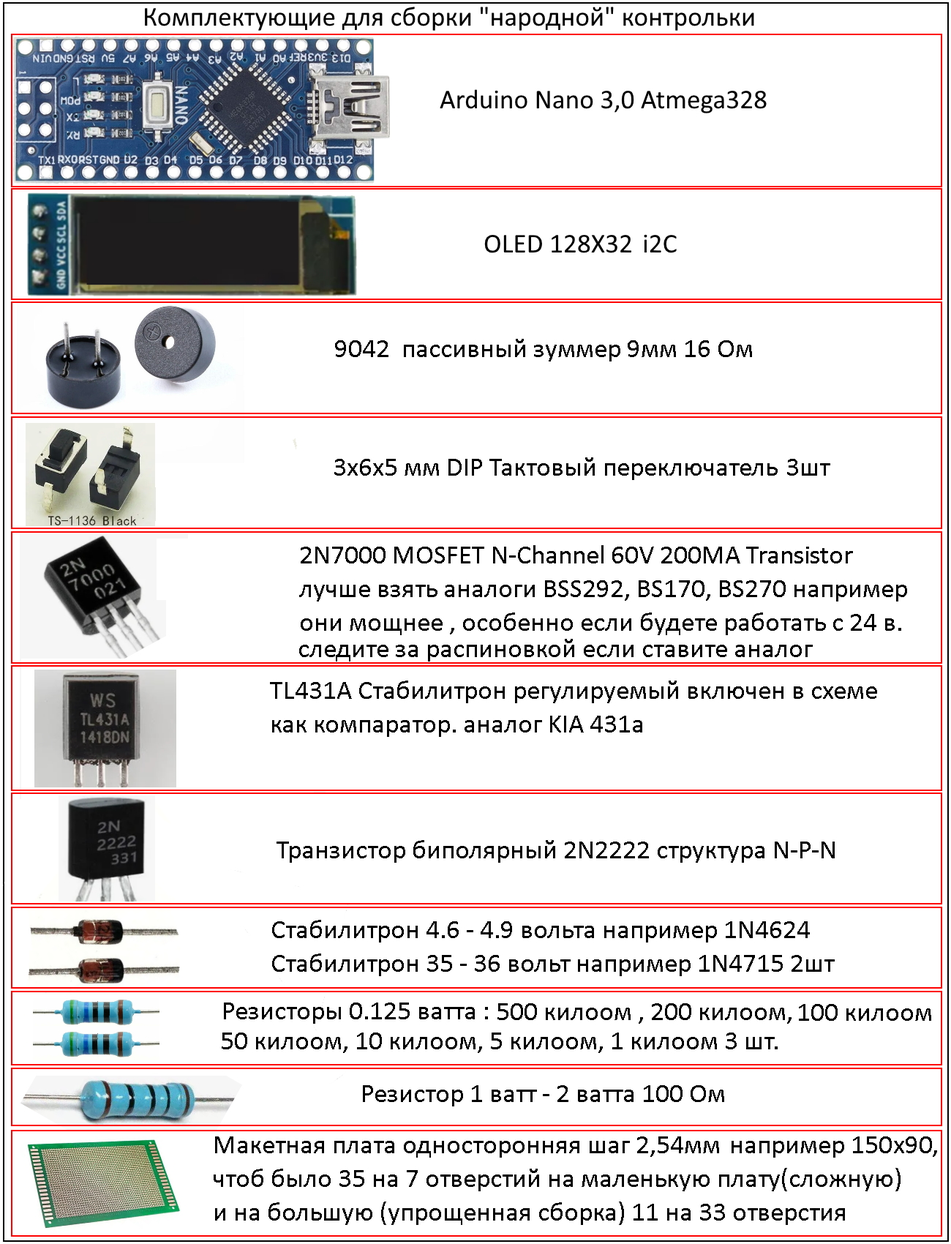
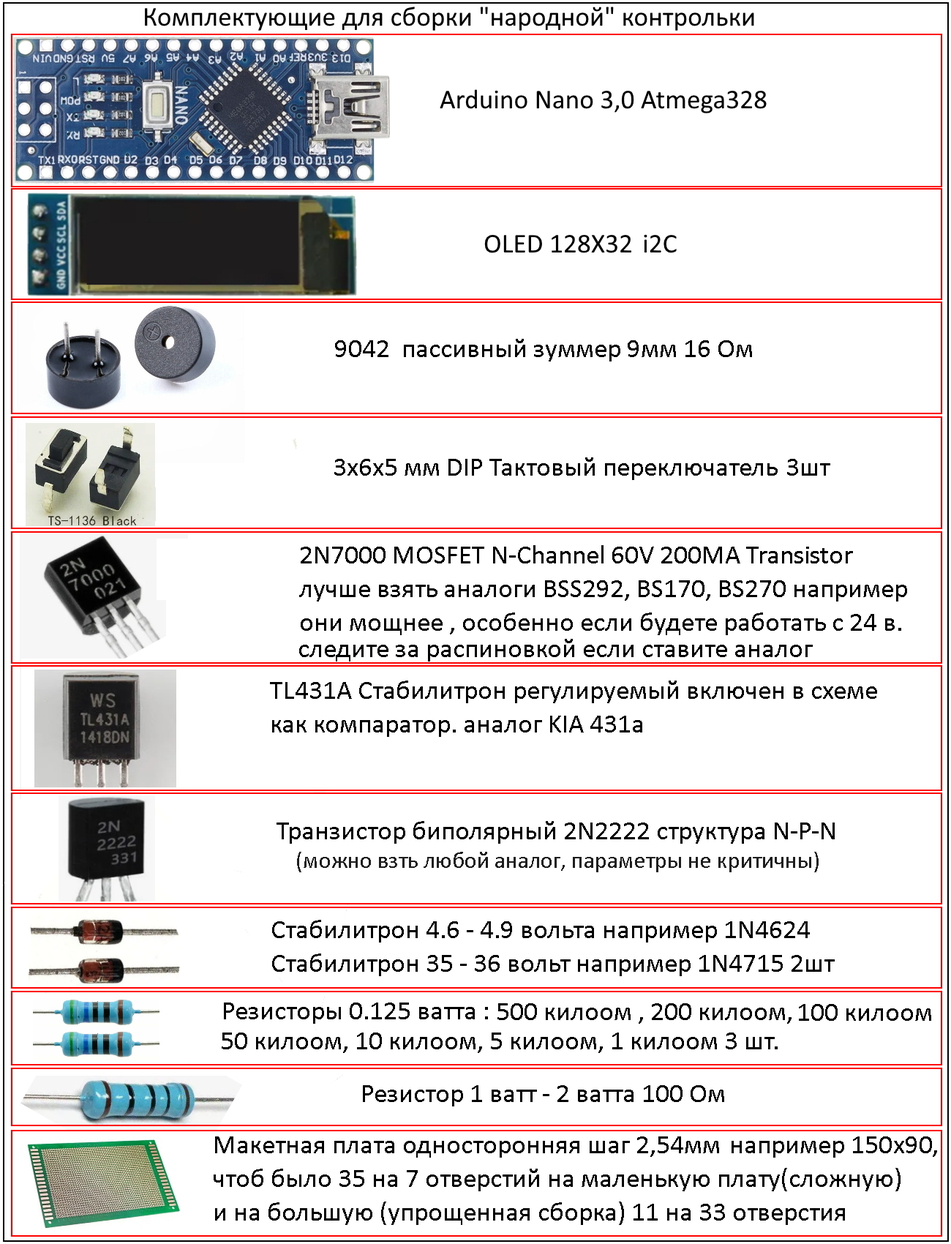
first commit39

Changed region(s): [[0.2769, 0.6547, 0.8923, 0.7171]]

diff --git a/shema.html b/shema.html
@@ -14,138 +14,167 @@
 
   </head  >
   <body  style = "background-color : #A6C197">
- <nav class="navbar navbar-expand-lg navbar-dark " style = "background-color : #18464A">
-  <a class="navbar-brand " href="#">Народная контролька</a>
-  <button class="navbar-toggler " type="button" data-toggle="collapse" data-target="#navbarSupportedContent" aria-controls="navbarSupportedContent" aria-expanded="false" aria-label="Переключатель навигации">
-    <span class="navbar-toggler-icon"></span>
-  </button>
-  <div class="collapse navbar-collapse justify-content-end" id="navbarSupportedContent">
-    <ul class="navbar-nav mb-2 mb-lg-0 ">
-      <li class="nav-item active">
-        <a class="nav-link text-light" href="index.html">Главная </a>
-      </li>
-      <li class="nav-item active">
-        <a class="nav-link text-light" href="obzor.html">Обзор функций </a>
-      </li>
-      <li class="nav-item active">
-        <a class="nav-link text-light" href="sborka.html">Пошаговая сборка </a>
-      </li>
-      <li class="nav-item ">
-        <a class="nav-link " href="shema.html">Схема и плата</a>
-      </li>
-      <li class="nav-item active">
-        <a class="nav-link  text-light" href="zagruzka.html">Файлы для скачивания</a>
-      </li>
-    </ul>
-  </div>
-</nav>
+   <nav class="navbar navbar-expand-lg navbar-dark " style = "background-color : #18464A">
+    <a class="navbar-brand " href="#">Народная контролька</a>
+    <button class="navbar-toggler " type="button" data-toggle="collapse" data-target="#navbarSupportedContent" aria-controls="navbarSupportedContent" aria-expanded="false" aria-label="Переключатель навигации">
+      <span class="navbar-toggler-icon"></span>
+    </button>
+    <div class="collapse navbar-collapse justify-content-end" id="navbarSupportedContent">
+      <ul class="navbar-nav mb-2 mb-lg-0 ">
+        <li class="nav-item active">
+          <a class="nav-link text-light" href="index.html">Главная </a>
+        </li>
+        <li class="nav-item active">
+          <a class="nav-link text-light" href="obzor.html">Обзор функций </a>
+        </li>
+        <li class="nav-item active">
+          <a class="nav-link text-light" href="sborka.html">Пошаговая сборка </a>
+        </li>
+        <li class="nav-item ">
+          <a class="nav-link " href="shema.html">Схема и плата</a>
+        </li>
+        <li class="nav-item active">
+          <a class="nav-link  text-light" href="zagruzka.html">Файлы для скачивания</a>
+        </li>
+      </ul>
+    </div>
+  </nav>
 
 
 
-      <div class="container-fluid">
-        <div class="row">
-          <div class="col-2 p-0 d-none d-md-block">
-           <!--  колонка невидимая -->
-         </div >
+  <div class="container-fluid">
+    <div class="row">
+      <div class="col-2 p-0 d-none d-md-block">
+       <!--  колонка невидимая -->
+     </div >
 
-         <div class="col p-0 ">
+     <div class="col p-0 ">
 
-          <div class="container-fluid p-0">
-
-
-    <div class="card p-1 mt-3">
-              <a id="dpkv"></a>
-              <h5 class="card-header text-center text-white" style = "background-color : #18464A">Сайт в разработке!</h5>
-              <div class="card-body p-1">
-                <h5 class="card-title">Что то может устарело или гдето ошибки это нормально!</h5>
-                <p>
-                  Старый сайт с актуальной информацией <a href="https://indeedphp.github.io/arduino/pages/handiwork.html#kontrolka9" >Перейти</a>
-                  <p/>
-                </div>
-              </div>
+      <div class="container-fluid p-0">
 
 
-            <div class="card p-1 mt-4">
-              <h5 class="card-header text-center text-white" style = "background-color : #18464A">Компоненты</h5>
-              <div class="card-body p-1">
-                <h5 class="card-title">Компоненты и аналоги</h5>
-                <img  src="image/komponent.jpg" class="img-fluid w-100">
-                <p class="card-text">На рисунке компоненты для сборки контрольки, они доступные и недорогие, если чтото не найдете то используйте аналоги, резистор на 10 килоом и 100 килоом ставте обязательно на именно такое сопротивление иначе вольтметр сложно будет корректировать, остальные резисторы плюс минус 15% без проблем, стоабилитроны любые на указанные вольты.
-                </p>
-              </div>
+        <div class="card p-1 mt-3">
+          <a id="dpkv"></a>
+          <h5 class="card-header text-center text-white" style = "background-color : #18464A">Сайт в разработке!</h5>
+          <div class="card-body p-1">
+            <h5 class="card-title">Что то может устарело или гдето ошибки это нормально!</h5>
+            <p>
+              Старый сайт с актуальной информацией <a href="https://indeedphp.github.io/arduino/pages/handiwork.html#kontrolka9" >Перейти</a>
+              <p/>
             </div>
-
-            <div class="card p-1 mt-4">
-              <h5 class="card-header text-center text-white" style = "background-color : #18464A">Схема контрольки</h5>
-              <div class="card-body p-1">
-                <h5 class="card-title">Электросхема контрольки и описание</h5>
-                <img  src="image/shema_elektro.jpg" class="img-fluid w-100">
-                <p class="card-text">На рисунке схема контрольки, она достаточно простая что благотворно скажется на сборке особенно для начинающих, так же компоненты на схеме распространенные и не дорогие.
-                </p>
-              </div>
-            </div>
-
-
-
-
-            <div class="card p-1 mt-4">
-              <h5 class="card-header text-center text-white" style = "background-color : #18464A">Сборка на макетке</h5>
-              <div class="card-body p-1">
-                <h5 class="card-title">Сборка контрольки на макетной плате</h5>
-                <img  src="image/chema_maket.jpg" class="img-fluid w-100">
-                <p class="card-text">Контролька собирается на макетной плате (размеры и количество отверстий дано на рисунке) для того чтоб каждый мог повторить ее не вдаваясь в изготовление или заказ печатных плат. Потом на сайте размещу провереные печатные платы для сборки как с выводными компонентами так и с CMD компонентами. Так же контролька все еще находится в стадии усовершенствования и что то может поменятся на макетке это сделать не сложно, а на печатной плате будет затруднительно. На рисунке плата которая разработана под корпус шприца 20 кубов, ее сборка не сильно сложная, пайка лишь усложняется тем что детали перекрываю дорожки и пр. , думаю сделать более простую версию где ничего не будет перекрыватся и в любой момент можно будет чтото подправить но тогда с корпусом придется самим чтото придумать, можно 3д принтер использовать или склеить из чего либо, да хоть папье-маше :).
-                </p>
-              </div>
-            </div>
-
-    <div class="card p-1 mt-4">
-              <h5 class="card-header text-center text-white" style = "background-color : #18464A">Сборка на макетке упрощенная</h5>
-              <div class="card-body p-1">
-                <h5 class="card-title">Упрощенная сборка для тестов и начинающих</h5>
-                <img  src="image/chema_maket_prostaya.jpg" class="img-fluid w-100">
-                <p class="card-text">ПОКА НЕ ПРОВЕРЯЛАСЬ ПЛАТА, ГАРАНТИИ ЧТО ЗАРАБОТАЕТ НЕТ. <br>
-                  Упростил плату теперь не надо при сборке чередовать последовательность впайки компонентов, можно паять откуда угодно, например можно запаять ардуино и дисплей и проверить работоспособность, далее запаять кнопки и проверить как они нажимаются и так далее, так же если нет некоторых деталей можно паять так, а потом когда детали появятся добавить, так же плата более ремонтопригодна так как не надо снимать дисплей али ардуино чтоб чтото там подпаять, заменить. Советую начинать с нее особенно когда все проверится. Плата кажется сильно шире предыдущей но это не так, она стала короче от этого такой эффект. На счет корпуса тут все идивидуально хоть клеить из листов, хоть 3д принтер, хоть папье-маше, хоть термоусадка сами решайте.
-                </p>
-              </div>
-            </div>
-
-
-
-            <div class="card p-1 mt-4">
-              <h5 class="card-header text-center text-white" style = "background-color : #18464A">Питание контрольки</h5>
-              <div class="card-body p-1">
-                <h5 class="card-title">Простая схема для питании контрольки в автомобиле.</h5>
-                <img  src="image/pitanie.jpg" class="img-fluid w-100">
-                <p class="card-text">
-                  Питание контрольки может быть разным но я предложу свой проверенный вариант который советую всем, как видно на схеме нужно всего 3 детали это стабилизатор и пару конденсаторов, все затягивается в термоусадку и получается небольшое утолщение на проводе перед крокодилами. Данная схема подходит как для работы с грузовиками где напряжение 24-28 вольт и с легковыми авто с напряжением 12-14 вольт, данный преобразователь при работе греется не сильно ведь ток потребления контрольки 30 милиапер (как у хорошего светодиода).
-                  <br>
-                  Вам не надо беспокоится о разряде аккумулятора, о том что на морозе или жаре акб испортится, а так же литиевые акб склонны к возгоранию так что советую данную схему как самую простую, доступную и недорогую.
-                  <br>
-                  Некоторых жанная схема напрягает тем что придется всегда подключатся к аккумулятору автомобиля и работать с удлинителем, но у удлинителя много преемуществ: у вас всегда честный плюс и минус, а значит все показания которые вы собираете правильные, так же удлинитель позволяет подать питание куда либо например на моторчик стеклоподъемника напрямую и проверить его, также удлинитель если он нетолстый играет роль защиты и нагрузки, 0.75 квадрата замкнутые потребляют 30 ампер что можно использовать для диагностики, замкнутый удлинитель будет грется секунд 15-20 прежде чем начнет плавится так ловите лайфхак :), бросить удлинитель занимает 1 минуту, а если вы сняли неточные показания оттолкнувшись от ржавой железки может работу затянуть и на пол дня.
-                </p>
-              </div>
-            </div>
-
-    <div class="card p-1 mt-4">
-              <h5 class="card-header text-center text-white" style = "background-color : #18464A">Кнопки в корпус</h5>
-              <div class="card-body p-1">
-                <h5 class="card-title">Чертеж кнопок для корпуса из шприца 20 кубов.</h5>
-                <img  src="image/knopki.jpg" class="img-fluid w-100">
-                <p class="card-text">
-На рисунке даны размеры кнопок для корпуса из шприца 20 кубов, кнопки клавишные очень хорошо подходят под данный корпус. Изготавливаются из пластика, можно взять корпус от игрушек, блоков питания, корпусов телевизоров и пр. главное чтоб пластик был жесткий. Выпилить можно пилкой по металлу и подогнать наждачной бумагой или надфилем, но лучше использовать бор машину (гравер) им довольно быстро все делается(стоят они недорого и для тех кто своими руками чтото делает незаменимая вещь, в автоэлектрике тоже кстати пригождается часто). Осью служит игла от шприца ей же и сверлим отверстия, игла острая и сверлит хорошо, самое главное что после сверления отсутствует люфт на оси, далее откусываем иглу так чтоб она немного цепляла стенки шприца и все, кнопки нажимаются на удивление хорошо, и переставить в другой корпус дело 1 минуты так как корпус никак не подгоняется, ни клеить ни закреплять как то нечего не надо, все дежится нза счет распорок зацепа за кнопки и пищалки что все не ушло в корпус. Размеры у вас могут немного отличатся, если пищалка стоит дальше что лучше то и зацеп делайте больше сильного зазора не должно быть. Ниже будут фото кнопок и видео работы.
-                </p>
-              </div>
-            </div>
-
           </div>
 
+
+          <div class="card p-1 mt-4">
+            <h5 class="card-header text-center text-white" style = "background-color : #18464A">Компоненты</h5>
+            <div class="card-body p-1">
+              <h5 class="card-title">Компоненты и аналоги</h5>
+              <img  src="image/komponent.jpg" class="img-fluid w-100">
+              <p class="card-text">На рисунке компоненты для сборки контрольки, они доступные и недорогие, если чтото не найдете то используйте аналоги, резистор на 10 килоом и 100 килоом ставте обязательно на именно такое сопротивление иначе вольтметр сложно будет корректировать, остальные резисторы плюс минус 15% без проблем, стоабилитроны любые на указанные вольты.
+              </p>
+            </div>
+          </div>
+
+          <div class="card p-1 mt-4">
+            <h5 class="card-header text-center text-white" style = "background-color : #18464A">Схема контрольки</h5>
+            <div class="card-body p-1">
+              <h5 class="card-title">Электросхема контрольки и описание</h5>
+              <img  src="image/shema_elektro.jpg" class="img-fluid w-100">
+              <p class="card-text">На рисунке схема контрольки, она достаточно простая что благотворно скажется на сборке особенно для начинающих, так же компоненты на схеме распространенные и не дорогие.
+                <br>
+                Немного разберем как работает схема: на транзисторе MOSFET 2n7000, резисторах R1, R2  собрана схема подключения нагрузки, при открытии транзистора на игле контрольки появляется нагрузка в 100 ом , так же данная схема работает для генератора ШИМ просаживая сигнал на игле на минус и пр.
+                <br>
+                На TL431 и резисторах R4, R3 собран частотомер, TL431 включена нестандартно как компаратор, с ардуино идет сигнал плюс 5 вольт и ТЛ его просаживает, ардуино видя это считает импульсы.
+                <br>
+                На R5 , R6 построен делитель напряжения для осцилографа и вольтметра он делит входное напряжение на 10 что позволяет измерять до 50 вольт но часть напряжения мы оставим под защиту входа ардуино.
+                <br>
+                На 2n2222 и резисторах R7,  R8,  R10 собрана прозвонка, при открытии транзистора на иглу подается напряжение и если это напряжение упадет до нуля сработает пищалка, так же эта схема работает как плюсовой ШИМ и пр.
+                <br>
+                Фонарик собран на резисторе R9 и белом светодиоде , фонарик светит всегда когда есть питание на контрольке.
+                <br>
+                Стабилитроны в схеме стоят для защиты от пренапряжения, они скидывают все лишнее на минус
+              </p>
+            </div>
+          </div>
+
+
+
+
+          <div class="card p-1 mt-4">
+            <h5 class="card-header text-center text-white" style = "background-color : #18464A">Сборка на макетке</h5>
+            <div class="card-body p-1">
+              <h5 class="card-title">Сборка контрольки на макетной плате</h5>
+              <img  src="image/chema_maket.jpg" class="img-fluid w-100">
+              <p class="card-text">Контролька собирается на макетной плате (размеры и количество отверстий дано на рисунке) для того чтоб каждый мог повторить ее не вдаваясь в изготовление или заказ печатных плат. Потом на сайте размещу провереные печатные платы для сборки как с выводными компонентами так и с CMD компонентами. Так же контролька все еще находится в стадии усовершенствования и что то может поменятся на макетке это сделать не сложно, а на печатной плате будет затруднительно. На рисунке плата которая разработана под корпус шприца 20 кубов, ее сборка не сильно сложная, пайка лишь усложняется тем что детали перекрываю дорожки и пр. , думаю сделать более простую версию где ничего не будет перекрыватся и в любой момент можно будет чтото подправить но тогда с корпусом придется самим чтото придумать, можно 3д принтер использовать или склеить из чего либо, да хоть папье-маше :).
+              </p>
+            </div>
+          </div>
+
+          <div class="card p-1 mt-4">
+            <h5 class="card-header text-center text-white" style = "background-color : #18464A">Сборка на макетке упрощенная</h5>
+            <div class="card-body p-1">
+              <h5 class="card-title">Упрощенная сборка для тестов и начинающих</h5>
+              <img  src="image/chema_maket_prostaya.jpg" class="img-fluid w-100">
+              <p class="card-text">ПОКА НЕ ПРОВЕРЯЛАСЬ ПЛАТА, ГАРАНТИИ ЧТО ЗАРАБОТАЕТ НЕТ. <br>
+                Упростил плату теперь не надо при сборке чередовать последовательность впайки компонентов, можно паять откуда угодно, например можно запаять ардуино и дисплей и проверить работоспособность, далее запаять кнопки и проверить как они нажимаются и так далее, так же если нет некоторых деталей можно паять так, а потом когда детали появятся добавить, так же плата более ремонтопригодна так как не надо снимать дисплей али ардуино чтоб чтото там подпаять, заменить. Советую начинать с нее особенно когда все проверится. Плата кажется сильно шире предыдущей но это не так, она стала короче от этого такой эффект. На счет корпуса тут все идивидуально хоть клеить из листов, хоть 3д принтер, хоть папье-маше, хоть термоусадка сами решайте.
+              </p>
+            </div>
+          </div>
+
+
+
+          <div class="card p-1 mt-4">
+            <h5 class="card-header text-center text-white" style = "background-color : #18464A">Питание контрольки</h5>
+            <div class="card-body p-1">
+              <h5 class="card-title">Простая схема для питании контрольки в автомобиле.</h5>
+              <img  src="image/pitanie.jpg" class="img-fluid w-100">
+              <p class="card-text">
+                Питание контрольки может быть разным но я предложу свой проверенный вариант который советую всем, как видно на схеме нужно всего 3 детали это стабилизатор и пару конденсаторов, все затягивается в термоусадку и получается небольшое утолщение на проводе перед крокодилами. Данная схема подходит как для работы с грузовиками где напряжение 24-28 вольт и с легковыми авто с напряжением 12-14 вольт, данный преобразователь при работе греется не сильно ведь ток потребления контрольки 30 милиапер (как у хорошего светодиода).
+                <br>
+                Вам не надо беспокоится о разряде аккумулятора, о том что на морозе или жаре акб испортится, а так же литиевые акб склонны к возгоранию так что советую данную схему как самую простую, доступную и недорогую.
+                <br>
+                Некоторых жанная схема напрягает тем что придется всегда подключатся к аккумулятору автомобиля и работать с удлинителем, но у удлинителя много преемуществ: у вас всегда честный плюс и минус, а значит все показания которые вы собираете правильные, так же удлинитель позволяет подать питание куда либо например на моторчик стеклоподъемника напрямую и проверить его, также удлинитель если он нетолстый играет роль защиты и нагрузки, 0.75 квадрата замкнутые потребляют 30 ампер что можно использовать для диагностики, замкнутый удлинитель будет грется секунд 15-20 прежде чем начнет плавится так ловите лайфхак :), бросить удлинитель занимает 1 минуту, а если вы сняли неточные показания оттолкнувшись от ржавой железки может работу затянуть и на пол дня.
+              </p>
+            </div>
+          </div>
+
+          <div class="card p-1 mt-4">
+            <h5 class="card-header text-center text-white" style = "background-color : #18464A">Кнопки в корпус</h5>
+            <div class="card-body p-1">
+              <h5 class="card-title">Чертеж кнопок для корпуса из шприца 20 кубов.</h5>
+              <img  src="image/knopki.jpg" class="img-fluid w-100">
+              <p class="card-text">
+                На рисунке даны размеры кнопок для корпуса из шприца 20 кубов, кнопки клавишные очень хорошо подходят под данный корпус. Изготавливаются из пластика, можно взять корпус от игрушек, блоков питания, корпусов телевизоров и пр. главное чтоб пластик был жесткий. Выпилить можно пилкой по металлу и подогнать наждачной бумагой или надфилем, но лучше использовать бор машину (гравер) им довольно быстро все делается(стоят они недорого и для тех кто своими руками чтото делает незаменимая вещь, в автоэлектрике тоже кстати пригождается часто). Осью служит игла от шприца ей же и сверлим отверстия, игла острая и сверлит хорошо, самое главное что после сверления отсутствует люфт на оси, далее откусываем иглу так чтоб она немного цепляла стенки шприца и все, кнопки нажимаются на удивление хорошо, и переставить в другой корпус дело 1 минуты так как корпус никак не подгоняется, ни клеить ни закреплять как то нечего не надо, все дежится нза счет распорок зацепа за кнопки и пищалки что все не ушло в корпус. Размеры у вас могут немного отличатся, если пищалка стоит дальше что лучше то и зацеп делайте больше сильного зазора не должно быть. Ниже будут фото кнопок и видео работы.
+              </p>
+            </div>
+          </div>
+
+
+
+         <div class="card p-1 mt-4">
+            <h5 class="card-header text-center text-white" style = "background-color : #18464A">Фото платы</h5>
+            <div class="card-body p-1">
+              <h5 class="card-title">Плата контрольки в реальности</h5>
+              <img  src="image/foto_cborka.jpg" class="img-fluid w-100">
+              <p class="card-text">
+               На фото собранная контролька , можно посмотреть как в реальности все выглядит, при сборке до последнего не паяется дисплей и ардуино, потом все проверив запаиваем ардуино, а дисплей подкидываем (в дисплей можно запаять на время контакты мамы), далее когда все проверили и закончили запаиваем дисплей.
+               <br>
+               Далее делаем кнопки, они клавишные и нажимаются очень хорошо, тут кнопки делались наспех лишь бы проверить работоспособность, получились не красиво, но при этом работают отлично, если постаратся то можно сделать и получше.
+              </p>
+            </div>
+          </div>
+
+
+
         </div>
 
-        <div class="col-2 p-0 d-none d-md-block">
-          <!-- третья колонка невидимая -->
-        </div>
+      </div>
+
+      <div class="col-2 p-0 d-none d-md-block">
+        <!-- третья колонка невидимая -->
       </div>
     </div>
-    <br><br><br>
-  </body>
-  </html>
+  </div>
+  <br><br><br>
+</body>
+</html>
